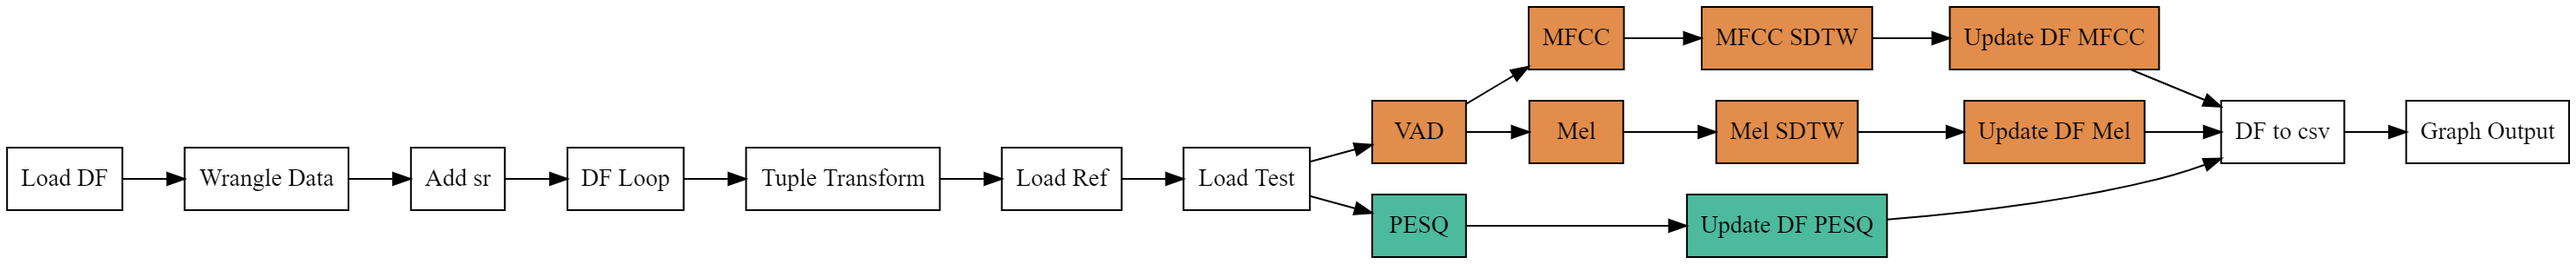
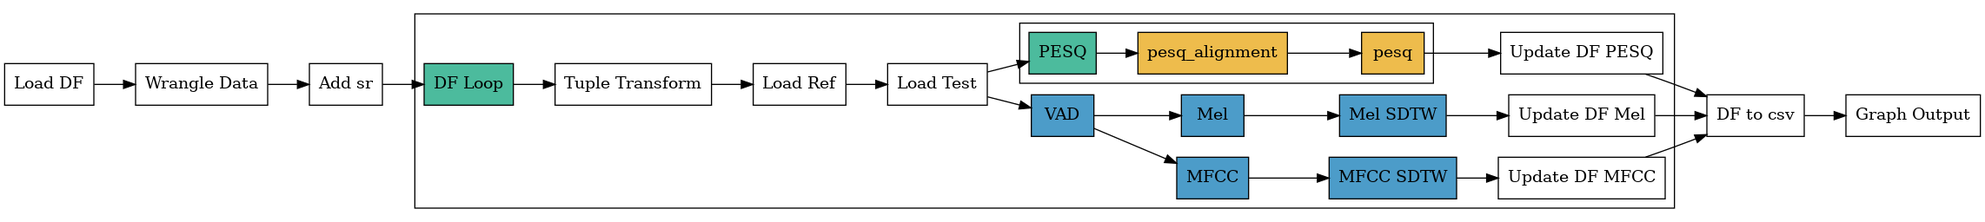
README update for Visualization changes + requirments.txt update

diff --git a/README.md b/README.md
@@ -56,6 +56,8 @@ For more Unix based install instructions go to https://subversion.apache.org/pac
 
 There is also information there for Windows users, but likely the easiest method is to just download the full dataset repository.
 
+To make full use of the pipelines visualization capabilities, it is recommended to install Graphviz. Graph visualization is a way of representing structural information as diagrams of abstract graphs and networks. Instructions on how to install Graphviz can be found [here](https://graphviz.org/download/).
+
 ### Quickstart Example
 
 To get a quick idea of how the pipeline works and can be used to run an experiment there is a quickstart example that is designed to get the pipeline working in a few easy steps.
@@ -80,7 +82,7 @@ For those who don't have access to <u>subversion</u> and <u>wget</u>.
 3. From the root directory of AQP, execute the following 
 
    ```
-   python utils/prepend_files.py --prepend_with "resources/" --dataset "resources/quickstart_genspeech.csv"
+   python scripts/prepend_files.py --prepend_with "resources/" --dataset "resources/quickstart_genspeech.csv"
    python pipeline.py --root_node_id "Load DF" --graph_config_path "config/example.json" --plot_graph
    ```
 
@@ -94,7 +96,7 @@ After executing the quickstart example through either method described above the
 It is also easy to extend the above example to recreate the case study performed in the AQP paper. On Mac/Unix, execute the ``genspeech.sh`` script from inside the scripts directory to download the entire Genspeech dataset and csv file.  Then from the root directory execute the following commands:
 
 ```
-python utils/prepend_files.py --prepend_with "resources/" --dataset "resources/genspeech.csv"
+python scripts/prepend_files.py --prepend_with "resources/" --dataset "resources/genspeech.csv"
 python pipeline.py --root_node_id "Load DF" --graph_config_path "config/warpq_pesq_dataset.json" --plot_graph
 ```
 
@@ -112,7 +114,9 @@ There are several arguments which can be passed to AQP, some are required, other
 The other options are:
 
 - ``--plot_graph``: Flag to create a diagram of the pipeline, default is False.
+- ``--output_dir``: Path to a directory for any files produced, default is ``results/``
 - ``--graph_output_file``: Path to file to store the created DOT file, do NOT include the file extension (this is done automatically), default is "results/graph". This gets expanded to, for example, "results/graph.dot".
+- ``--validate:`` Signals that the pipeline should just be validated and optionally graphed. Pipeline will not run if this is set to ``True``.
 - ``--debug``: Enables debug logging.
 - ``--version``: Prints the version.
 
@@ -126,7 +130,7 @@ In future we plan on adding more quality metrics, datasets and core nodes to the
 
 ## Node Abstract Class
 
-Nodes are used to encapsulate some unique logic/functionality, but there is common properties/functionality to all nodes. These are defined in the abstract Node class (found in nodes/node.py). 
+Nodes are used to encapsulate some unique logic/functionality, but there is common properties/functionality to all nodes. These are defined in the abstract Node class (found in nodes/node.py). Node **must be** contained within the ``nodes`` directory. Any node placed in this directory will be detected by the pipeline and will be available for use.
 
 ```python
 class Node(object):
@@ -247,7 +251,7 @@ The pipeline is defined as a collection of connected nodes. This information is 
 
 The above configuration results in a graph that looks like the image below. 
 
-![](C:\Users\jgera\Documents\ComputerScience\AQP\images\example_simple_pipeline.png "Simple pipeline")
+![](images/example_simple_pipeline.png "Simple pipeline")
 
 ## Advanced Nodes
 
@@ -318,7 +322,7 @@ An id of the starting node in the sub-graph must be provided in both cases.
 }
 ```
 
-The JSON below is the contents of ``config/visqol/graphs/default_visqol_mel.json`` 
+The JSON below is the contents of ``config/visqol/graphs/default_visqol_mel.json`` (found under the ``visqol_dev branch`` or ``feature_dev_two`` for now)
 
 ```json
 {
@@ -436,7 +440,7 @@ Example
 		"type": "LoadCSVAsDFNode",
 		"children": ["Wrangle Data"],
 		"output_key": "dataframe",
-		"path_to_csv": "resources/genspeech.csv"
+		"path_to_csv": "resources/quickstart_genspeech.csv"
 	},
 	"Wrangle Data": {
 		"type": "TransformNode",
@@ -528,9 +532,6 @@ Example
 				"function_args": {
 					"key": "warp_q_mel",
 					"col_name": "Ref_Wave"
-				},
-				"draw_options": {
-					"fillcolor": "#d55c00B3"
 				}
 			},
 			"Update DF MFCC": {
@@ -540,16 +541,7 @@ Example
 				"function_args": {
 					"key": "warp_q_mfcc",
 					"col_name": "Ref_Wave"
-				},
-				"draw_options": {
-					"fillcolor": "#d55c00B3"
 				}
-			},
-			"Modified VAD": {
-				"type": "WarpQVADNode",
-				"children": ["MFCC"],
-				"ref_sig_key": "reference_signal",
-				"deg_sig_key": "degraded_signal"
 			},
 			"PESQ": {
 				"type": "EncapsulationNode",
@@ -564,9 +556,6 @@ Example
 						"type": "PyPESQNode",
 						"output_key": "pesq"
 					}
-				},
-				"draw_options": {
-					"fillcolor": "#009e74B3"
 				}
 			},
 			"Update DF PESQ": {
@@ -576,9 +565,6 @@ Example
 				"function_args": {
 					"key": "pesq",
 					"col_name": "Ref_Wave"
-				},
-				"draw_options": {
-					"fillcolor": "#009e74B3"
 				}
 			}
 		}
@@ -605,12 +591,22 @@ Example
 
 
 
-## Drawing the Pipeline
+## Visualizing the Pipeline
 
-It is possible to output a diagram of the pipeline. This functionality is based on a combination of [GraphViz](https://graphviz.org/) and the [NetworkX](https://networkx.org/) python package. If the ``--plot_graph`` command-line argument is set, then a NetworkX version of the pipeline is built, has the ``draw_options`` associated with each node applied to the NetworkX version of the node, and finally a ``.dot`` file is generated for the graph, which can be visualized with GraphViz. Currently, only one version of the graph is produced, where all nodes, that aren't part of an EncapsulationNode are graphed. 
+It is possible to produce a visual output of the pipeline. This visualization shows the connections between nodes and clusters of nodes that are related due to a *NestedNode*. These clusters are shown by boxes drawn around nodes that belong to a NestedNode. The first node in these clusters is the *NestedNode* itself, then it contains the nodes connected to the *execution_node* of the *NestedNode*.
 
-Ideally, EncapsulationNodes will be included in future, the current issue with it relates to loop nodes within an encapsulation node and connecting them to the appropriate nodes. 
+The visualization is produced by means of the [DOT language](https://graphviz.org/doc/info/lang.html). The DOT file produced by the pipeline can be modifying to add any additional drawing information. If [Graphviz](https://graphviz.org/download/) is installed on your machine and the ``dot`` command is available in the terminal then after the DOT file is created this command is invoked and a PNG and SVG version of the DOT file is created. 
 
-Another future possibility is the drawing of a box, or something similar around loop nodes and encapsulation nodes, to highlight that they are different from the rest of the graph.
+The *draw_options* passed to a given node are used here to produce the desired colours/shapes/etc. in the visualization. Further, global DOT attributes such as "rankdir" can be specified(as it was to produce the images below) in the ``config/dot_config.json`` file. All entries in this JSON file will be added to the top of the DOT output. 
 
 ![Case study pipeline](images/warpq_pesq.png "Diagram output for the Comparing WarpQ and PESQ")
+
+![Case study pipeline](images/warpq_pesq_old.png "Old Diagram output for the Comparing WarpQ and PESQ")
+
+The top image is the output produced from running the ``scripts/run_example.sh`` script, which uses the ``config/example.json`` configuration. The below image is the output of the previous visualization implementation.
+
+
+
+The large pipeline visualization below is generated from the ``config/colour_demo.json`` configuration (currently found in the ``feature_dev_two`` branch). It contains nodes from each of the node superclasses, ViSQOL, WARP-Q, PESQ, Nested and the default AQP. It's purpose is to show off all the different colours, as well as serve as another example of how the pipeline can be put together.
+
+ ![colour_demo](./images/colour_demo.png)
